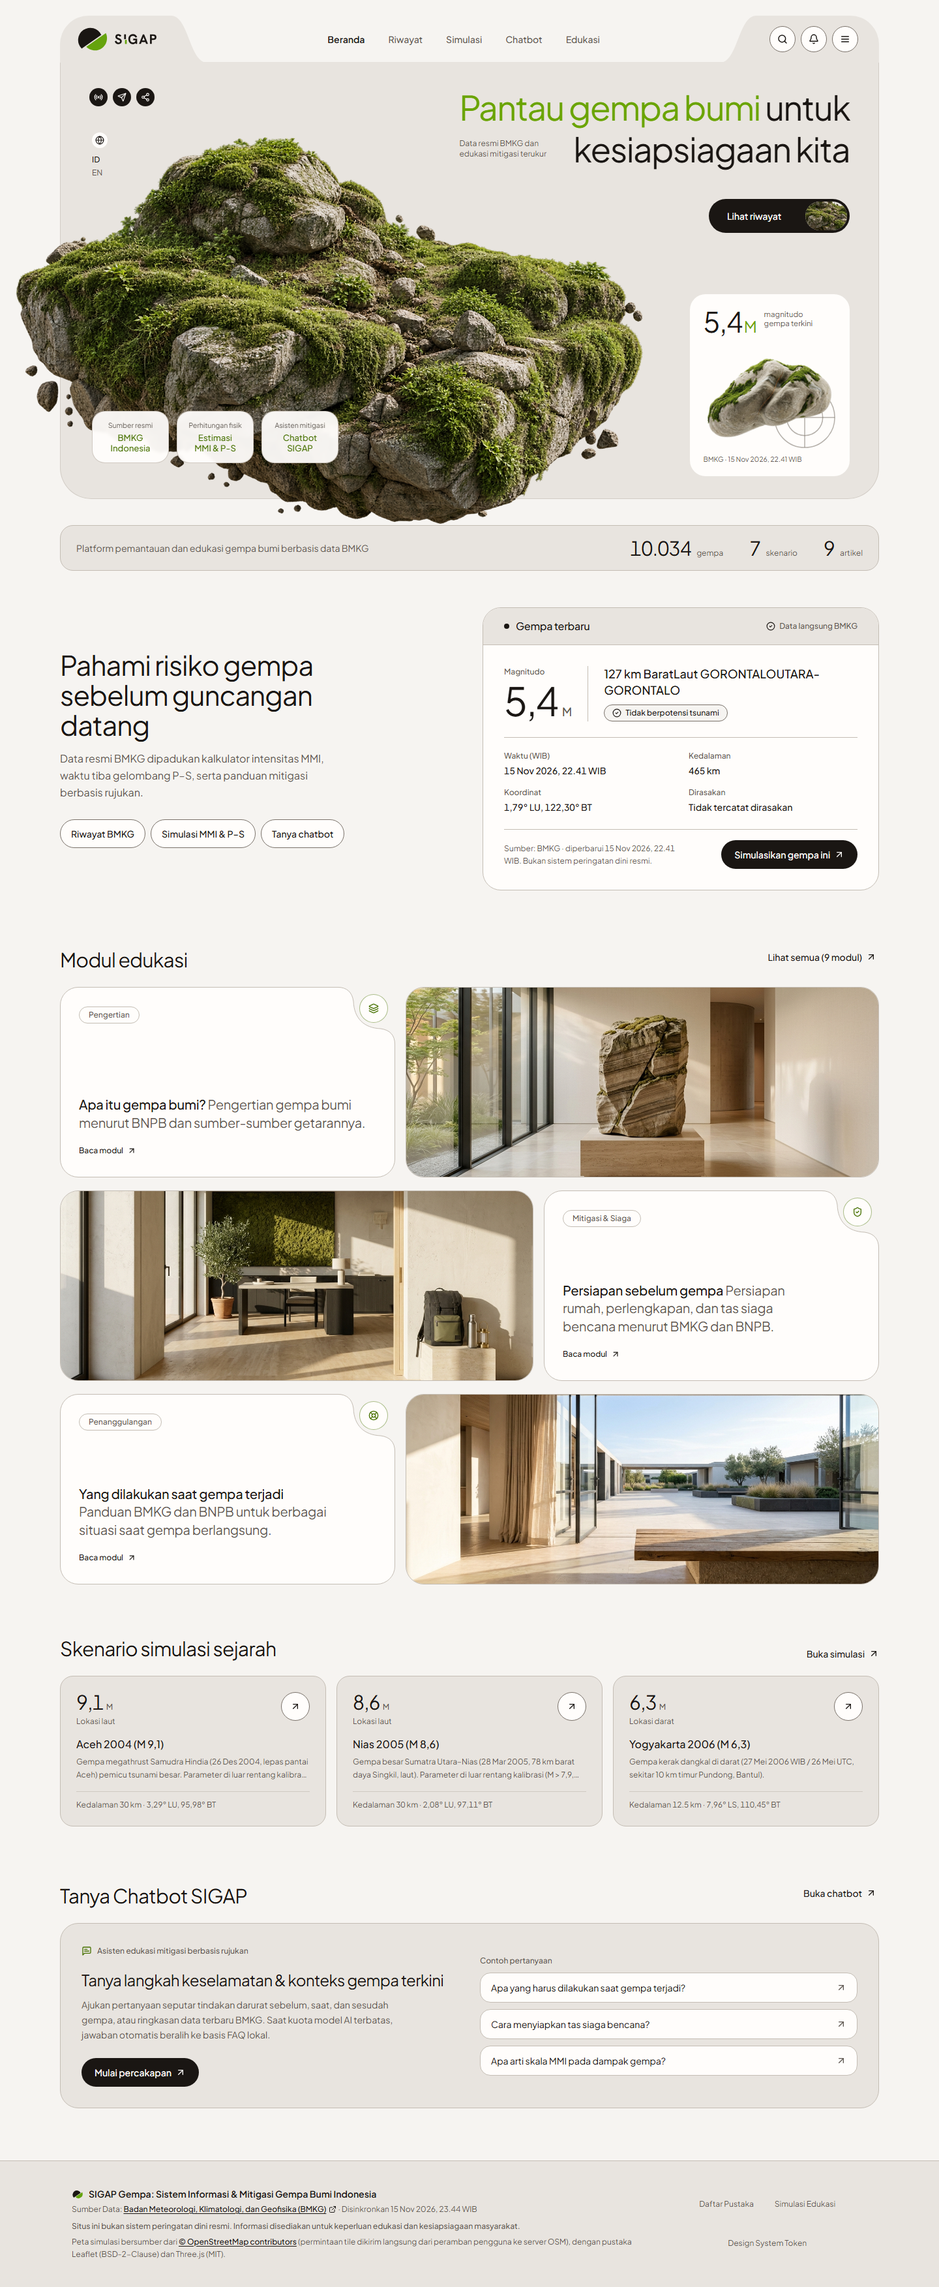
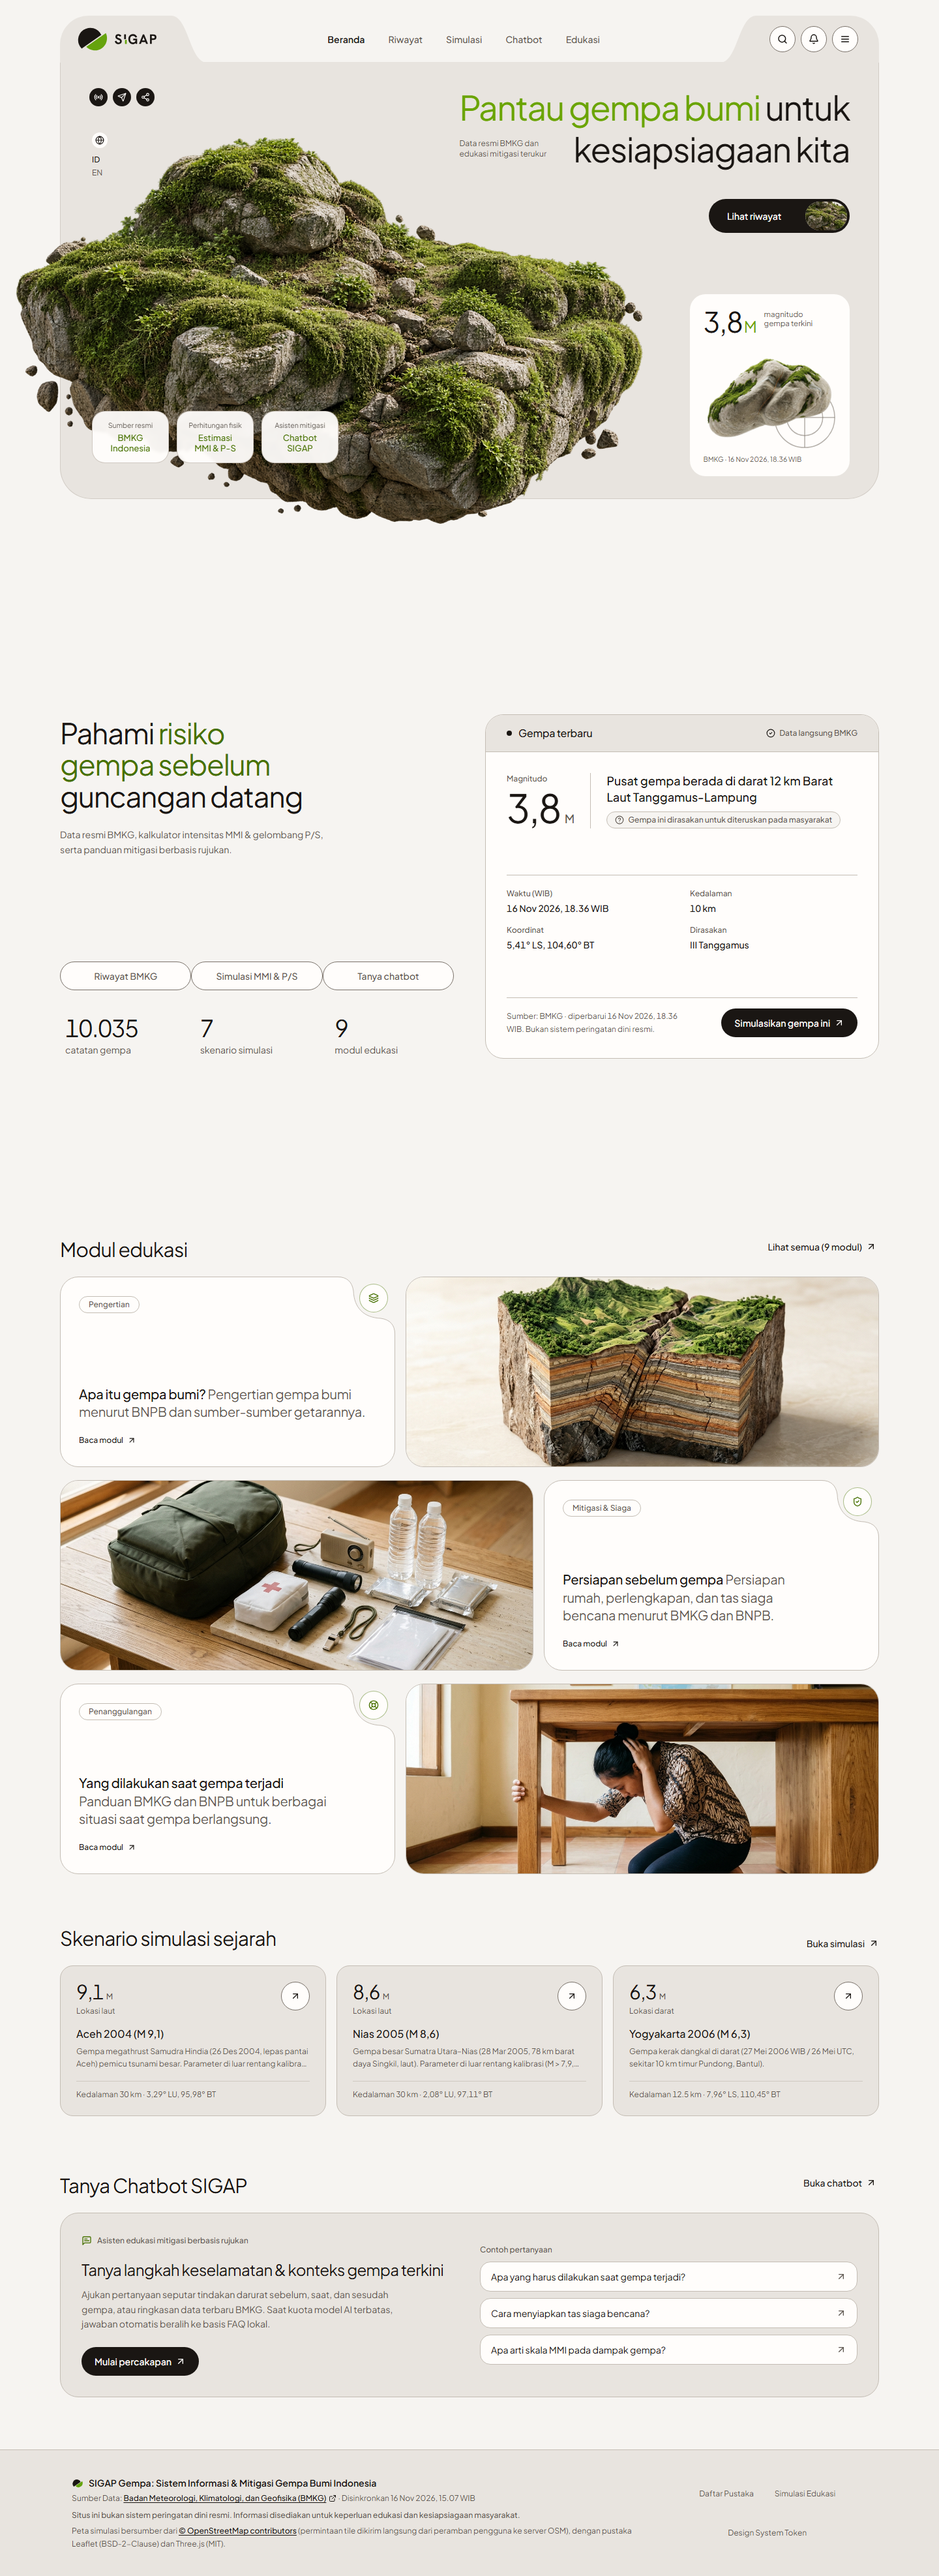
assets(beranda): perbarui gambar modul edukasi sesuai konten masing-masing

diff --git a/src/app/page.tsx b/src/app/page.tsx
@@ -61,24 +61,24 @@ interface ModuleVisual {
 const MODULE_VISUAL_BY_SLUG: Record<string, ModuleVisual> = {
   "apa-itu-gempa-bumi": {
     src: "/images/modul-pengertian-sesar.jpg",
-    alt: "Ilustrasi diorama batu berlapis dengan bidang sesar geologi dan lumut hijau",
+    alt: "Penampang diorama kerak bumi yang menunjukkan patahan sesar tektonik di bawah perbukitan hijau",
     width: 1792,
-    height: 1024,
+    height: 1008,
     position: "object-center",
   },
   "persiapan-sebelum-gempa": {
     src: "/images/modul-mitigasi-siaga.jpg",
-    alt: "Ruang kerja minimalis dengan dinding lumut, meja kokoh, dan tas siaga bencana di dekat pintu",
-    width: 1344,
-    height: 768,
-    position: "object-[50%_68%]",
+    alt: "Perlengkapan tas siaga bencana berupa ransel darurat, kotak P3K, senter, radio portabel, air minum, peluit, dan map dokumen tahan air",
+    width: 1792,
+    height: 1024,
+    position: "object-center",
   },
   "saat-gempa-terjadi": {
     src: "/images/modul-penanggulangan-lindung.jpg",
-    alt: "Ruang paviliun dengan bangku kayu-batu kokoh yang terhubung ke halaman terbuka bebas hambatan",
+    alt: "Peragaan perlindungan diri saat gempa dengan berlutut di bawah meja kayu kokoh sambil melindungi kepala dan memegang kaki meja",
     width: 1792,
     height: 1024,
-    position: "object-[50%_65%]",
+    position: "object-center",
   },
 };
 
